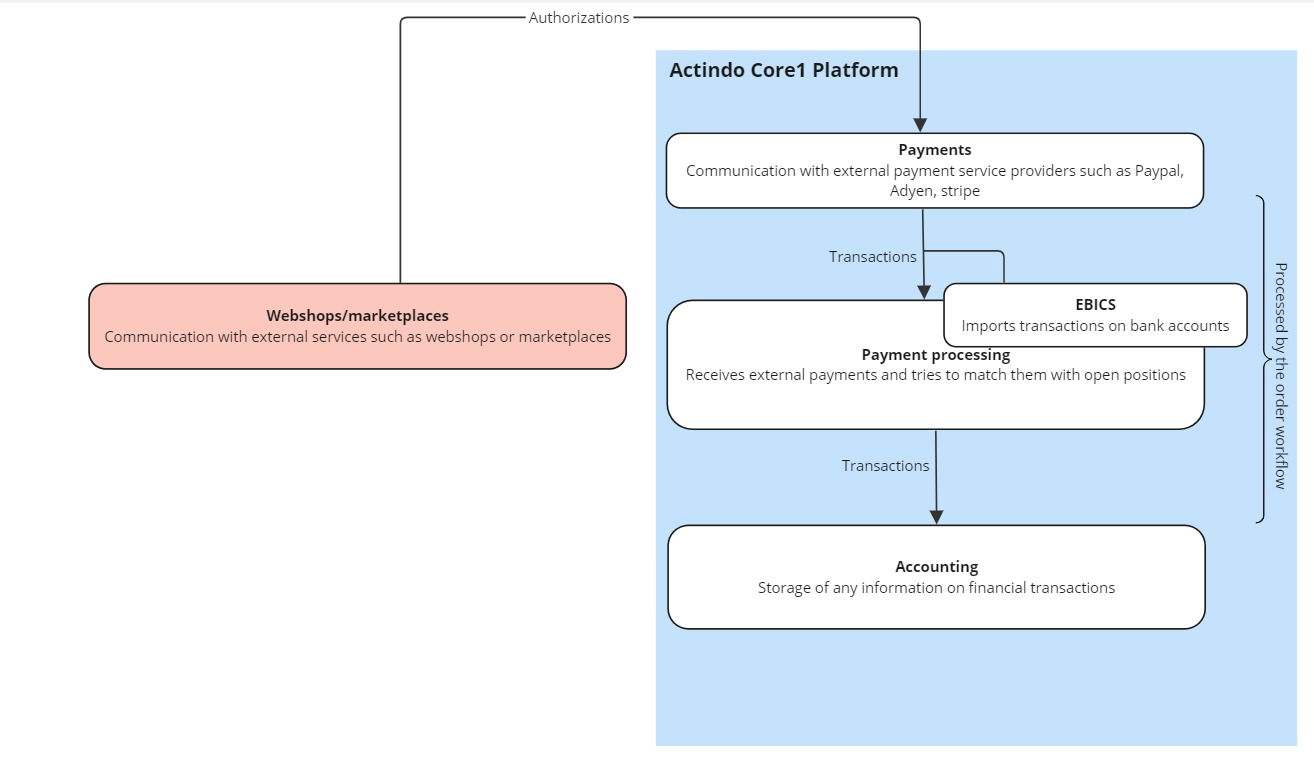
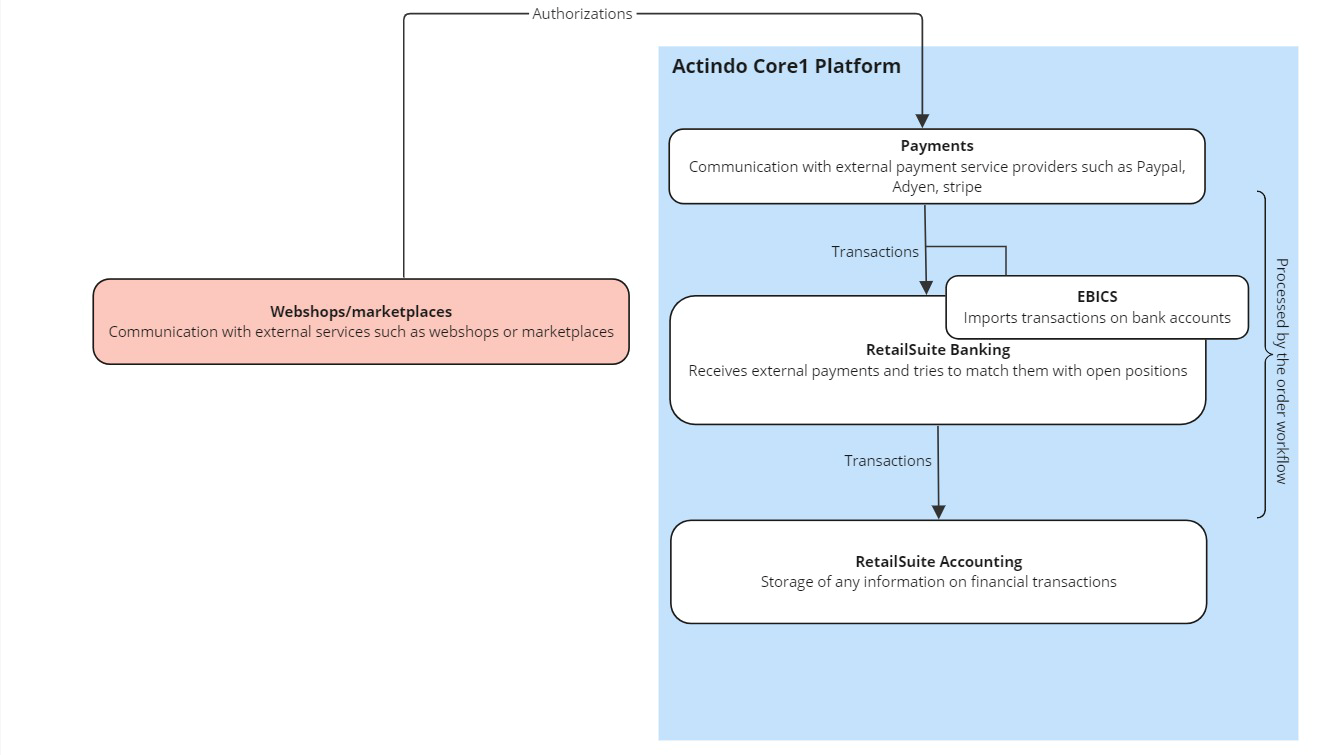
ACD-843
Screenshot corrections

diff --git a/Payments/Overview/02_Features.md b/Payments/Overview/02_Features.md
@@ -17,8 +17,8 @@ The single steps of the payments process are usually integrated in an order work
 ## Connecting with payment service providers  
 You can flexibly connect various payment service providers such as Adyen&trade; or Paypal&trade; to the *Actindo Core1 Platform*. Depending on the payment service provider you decide for, credit cards, bank transactions, and other standard payment methods are supported implicitly.
 
-##  Payment processing and accounting linked   
- If you have the *Actindo Accounting* module in use, the Actindo *Payments* module connects the business accounts at your various payment service providers and the Actindo *RetailSuiteBanking* module. In being the smart connection between these two, the Actindo *Payments* module helps you to process orders faster and more efficiently.  Thanks to automated payment checks, incoming payments are registered directly, and orders could therefore be processed immediately. Refunds can be made just as quickly and automatically. By linking payment and accounting, you do not only minimize the workload for your employees, but also offer your customers a smooth and fast service.
+##  Payments processing and accounting linked   
+ If you have the *Actindo RetailSuiteAccounting* module in use, the *Actindo Payments* module connects the business accounts at your various payment service providers and the *Actindo RetailSuiteBanking* module. In being the smart connection between these two, the Actindo *Payments* module helps you to process orders faster and more efficiently.  Thanks to automated payment checks, incoming payments are registered directly, and orders could therefore be processed immediately. Refunds can be made just as quickly and automatically. By linking payment and accounting, you do not only minimize the workload for your employees, but also offer your customers a smooth and fast service.
 
 **Payments interaction with other modules** 
 
